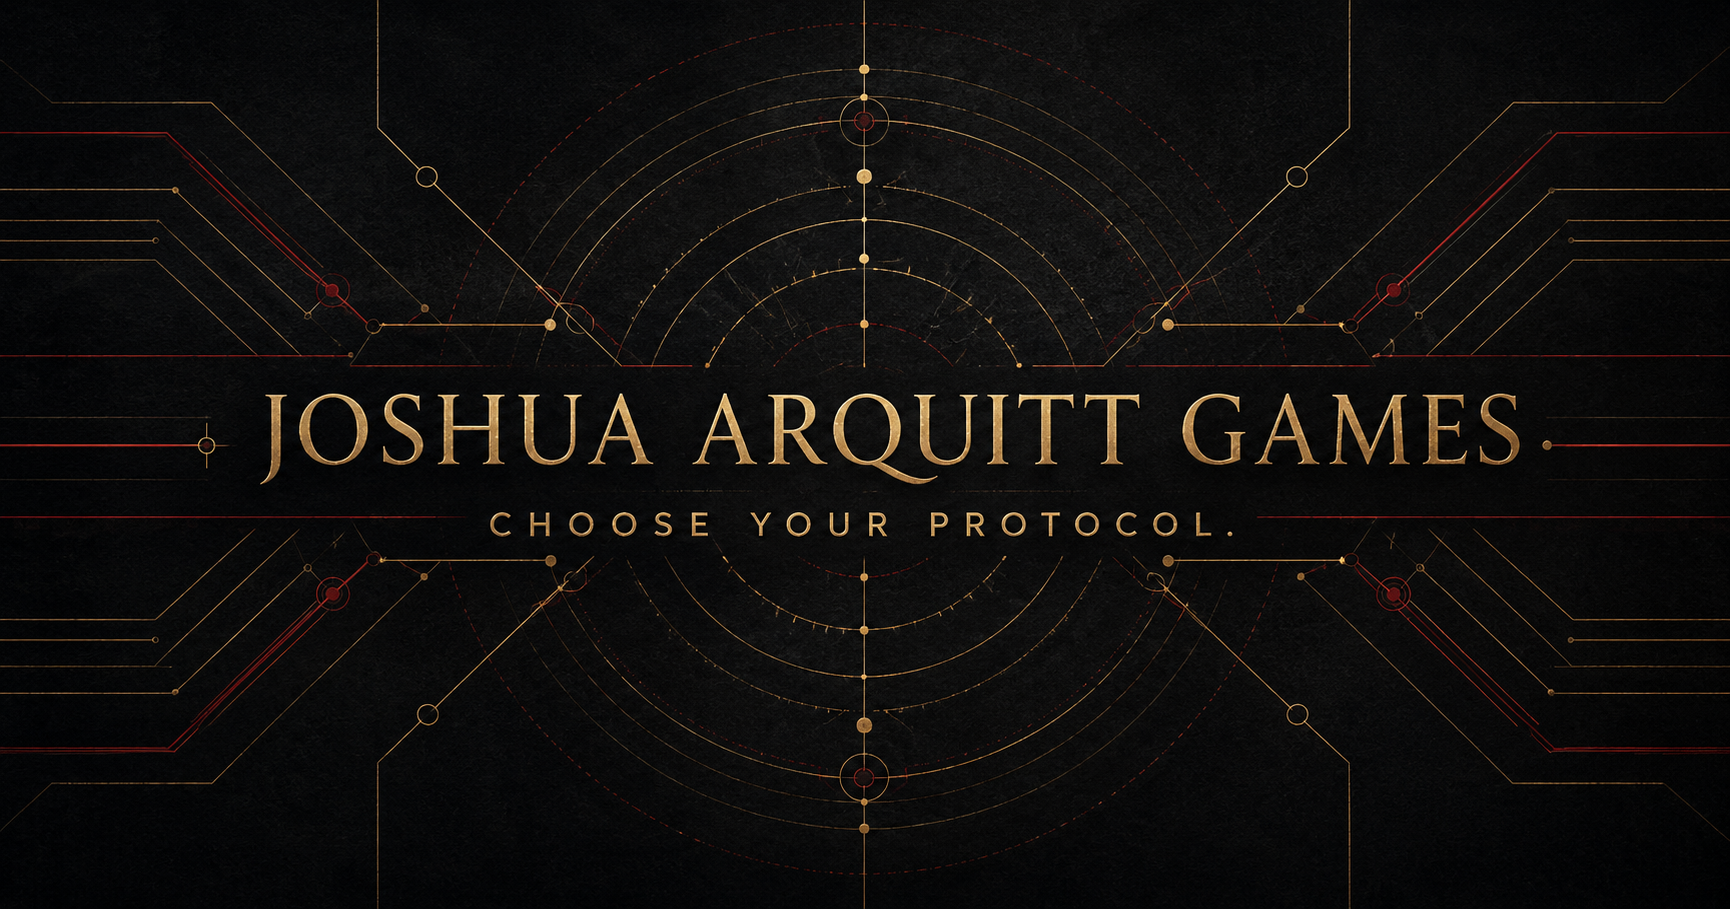
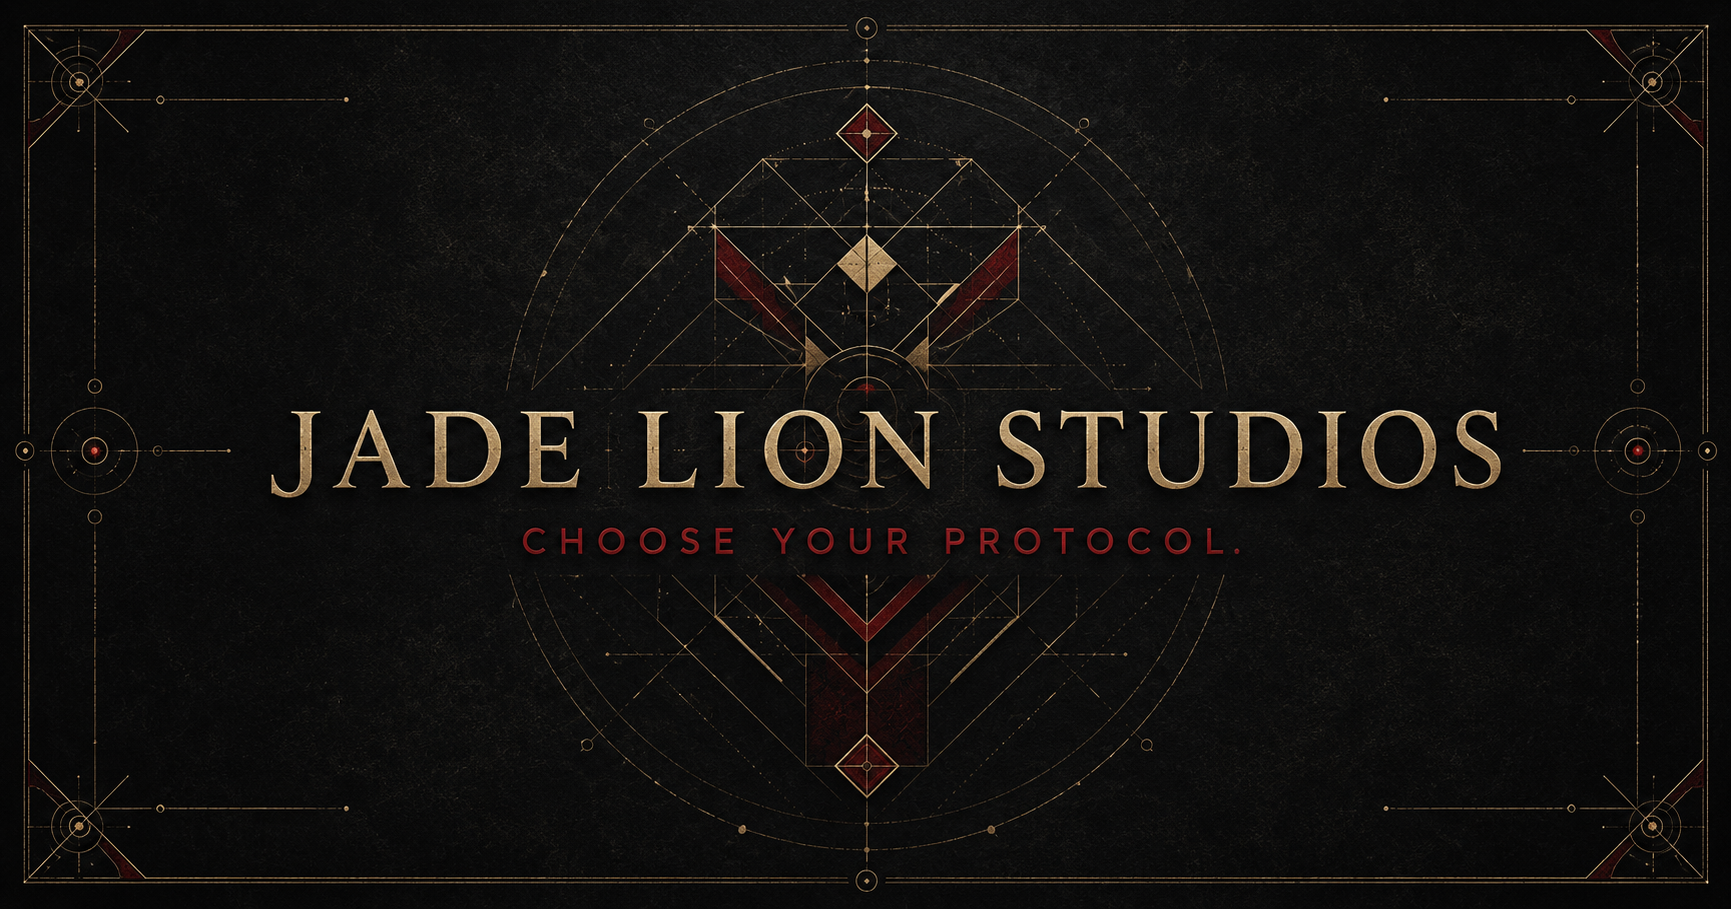
Correct hub branding to Jade Lion Studios

diff --git a/index.html b/index.html
@@ -5,16 +5,16 @@
   <meta name="viewport" content="width=device-width,initial-scale=1">
   <meta name="theme-color" content="#09090a">
   <meta name="description" content="The public home of Protocol 7 and the Protocol Dice Engine.">
-  <meta property="og:title" content="Joshua Arquitt Games">
+  <meta property="og:title" content="Jade Lion Studios">
   <meta property="og:description" content="Choose your protocol.">
   <meta property="og:type" content="website">
   <meta property="og:url" content="https://jnarquitt.github.io/">
   <meta property="og:image" content="https://jnarquitt.github.io/og.png">
   <meta name="twitter:card" content="summary_large_image">
-  <meta name="twitter:title" content="Joshua Arquitt Games">
+  <meta name="twitter:title" content="Jade Lion Studios">
   <meta name="twitter:description" content="Choose your protocol.">
   <meta name="twitter:image" content="https://jnarquitt.github.io/og.png">
-  <title>Joshua Arquitt Games</title>
+  <title>Jade Lion Studios</title>
   <style>
 :root{--night:#09090a;--panel:#131214;--ink:#f5eee5;--muted:#aaa0a0;--red:#b52d43;--gold:#d6a04a;--line:#443438}
 *{box-sizing:border-box}
@@ -45,9 +45,9 @@ footer{display:flex;justify-content:space-between;gap:20px;padding:28px 0 46px;b
 <main>
   <div class="grid-field" aria-hidden="true"></div>
   <header class="masthead">
-    <a class="identity" href="#top" aria-label="Joshua Arquitt Games home">
-      <span class="identity-mark">JA</span>
-      <span><b>JOSHUA ARQUITT</b><small>GAMES + SYSTEMS</small></span>
+    <a class="identity" href="#top" aria-label="Jade Lion Studios home">
+      <span class="identity-mark">JL</span>
+      <span><b>JADE LION</b><small>STUDIOS</small></span>
     </a>
     <span class="status"><i></i> PUBLIC PLAYTEST LIBRARY</span>
   </header>

diff --git a/README.md b/README.md
@@ -1,4 +1,4 @@
-# Joshua Arquitt Games
+# Jade Lion Studios
 
 This repository provides one permanent public doorway to two tabletop roleplaying projects:
 
